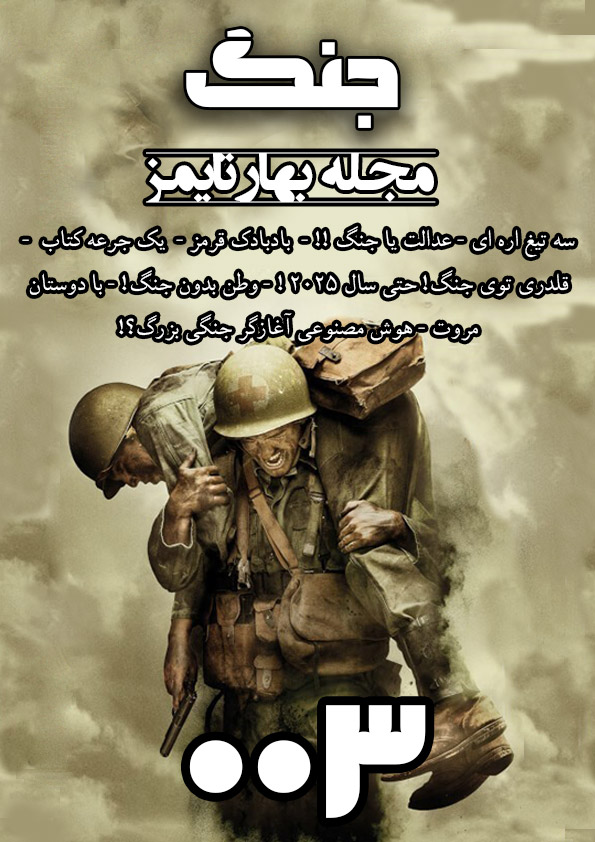
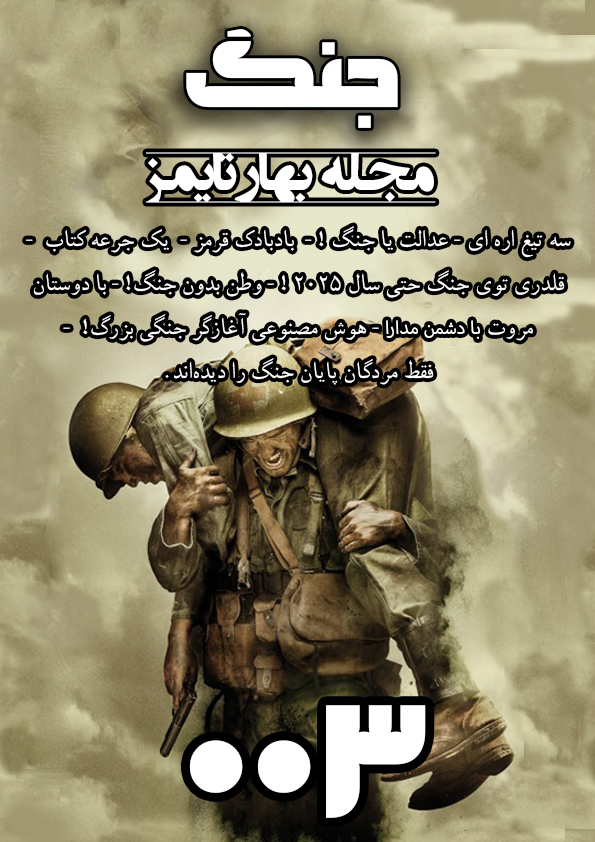
feat(009 hedye)

Changed region(s): [[0.0303, 0.247, 0.9681, 0.4632]]

diff --git a/archive/003/index.html b/archive/003/index.html
@@ -358,6 +358,7 @@
         جنگ، پدیدهای است که بسیاری از آن گریزاناند؛ زخمی که از دل تاریخ سرچشمه میگیرد و هنوز هم اثری عمیق بر جسم و روح جوامع میگذارد . کمتر کسی به خواندن کتابهایی درباره آن رغبت نشان میدهد، چرا که یادآور خشونت و رنج است. اما میخواهم در میان انبوه روایتهای تلخ و جانفرسا، آثاری را معرفی کنم که فراتر از جنگ هستند و از انسانیت و بقا و عشق سخن میگویند. کتابهایی که نه تنها روایتگر جنگاند، بلکه ارزشمندترین تجربههای انسانی را بازگو میکنند و شایسته توجه و زمان مخاطباند.
       </p>
       <hr/>
+      <div class="page-break"></div>
       <p class="text-align-justify">
         سلاخخانه شماره ۵ : slaughterhouse - five <br/>
         - نویسنده: کورت ونهگات <br/>
@@ -368,6 +369,10 @@
       </p>
       <p class="text-align-justify">~این کتاب زیبا را میتوانید با ترجمه فارسی مترجمان برجسته از جمله آقای شهرام داوری و محمدرضا قربانی در کتابخانههای مختلف پیدا کنید~</p>
       <hr/>
+      <img
+        class="alignright w-40 mt-0"
+        src="./assets/images/004-2.jpg"
+      />
       <p>
         در باب جنگ  |  on war <br/>
         - نویسنده: کارل فون کلاوزویتس <br/>
@@ -380,7 +385,6 @@
       </p>
     </div>
     <hr class="d-lg-none" />
-    <div class="page-break"></div>
     <br />
     <div id="005" class="typography-align">
       <h2 class="display-inline-block">قلدری توی جنگ! حتی تو سال 2025!</h2>
@@ -528,16 +532,22 @@
         <strong class="title small">دکتر سید حامد صدوق</strong>
       </a>
       <p class="text-align-justify">
-        خداوند متعال انسانها را مدنی الطبع آفرید و آنها را به گونه ای قرار داد تا برای رفع انواع نیازهای خود به اجتماع و افراد آن وابسته باشند. لاجرم انسانها باید در کنار هم زندگی کنند. از طرفی, انسانها مختلف الطبایع نیز می باشند و طبایع حاکم بر آنها متفاوت است. چهار طبع بلغمی, سودایی, صفراوی و دموی وجود دارد که همه این چهار طبع در همه انسانها وجود دارد ولی به دلیل عدم تعادل این طبایع در انسان, معمولا یکی از آنها بر بقیه غلبه دارد. طبع غالب هر انسانی نیز باعث بوجود آمدن خلقیات متفاوتی در انسانها می شود. مثلا بلغمی ها خونسرد, سوادیی ها گوشه گیر, صفراوی ها تند خو و دموی ها اجتماعی هستند. وجود طبایع مختلف و در نتیجه اخلاقیات و سلیقه ها و ترجیحات متفاوت در میان انسانها که لاجرم مدنی الطبع هستند و با همدیگر همزیستی دارند باعث بوجود آمدن اختلافها و در نتیجه نزاعها در بین آنان می شود. لذا وجود حاکم عادل و رافع نزاع در میان آنها بسیار ضروری بود که خداوند حکیم پیامبران را برای برقراری این عدالت در میان آنها مبعوث کرد که البته این یکی از وجوه حضور پیامبران در میان مردم است. 
+        خداوند متعال انسانها را مدنیالطبع آفرید و ذات آنها را به گونهای قرار داد که برای رفع انواع نیازهای خود، به اجتماع و افراد آن وابسته باشند. لاجرم انسانها باید در کنار هم زندگی کنند. از طرفی، انسانها مختلفالطبایع نیز میباشند و طبایع حاکم بر آنها متفاوت است. چهار طبع بلغمی، سودایی، صفراوی و دموی وجود دارد؛ تمام انسانها از  این چهار طبع برخوردارند اما به دلیل عدم تعادل این طبایع در انسان، معمولاً یکی از آنها بر سایر طبعها غلبه میکند. طبع غالب انسانها نیز باعث بهوجود آمدن خلقیات متفاوتی در آنها میشود؛ برای مثال بلغمیها خونسرد، سوادییها گوشهگیر، صفراویها تندخو و دمویها اجتماعی هستند.
       </p>
       <p class="text-align-justify">
-        خداوند متعال انسانها را مدنی الطبع آفرید و آنها را به گونه ای قرار داد تا برای رفع انواع نیازهای خود به اجتماع و افراد آن وابسته باشند. لاجرم انسانها باید در کنار هم زندگی کنند. از طرفی, انسانها مختلف الطبایع نیز می باشند و طبایع حاکم بر آنها متفاوت است. چهار طبع بلغمی, سودایی, صفراوی و دموی وجود دارد که همه این چهار طبع در همه انسانها وجود دارد ولی به دلیل عدم تعادل این طبایع در انسان, معمولا یکی از آنها بر بقیه غلبه دارد. طبع غالب هر انسانی نیز باعث بوجود آمدن خلقیات متفاوتی در انسانها می شود. مثلا بلغمی ها خونسرد, سوادیی ها گوشه گیر, صفراوی ها تند خو و دموی ها اجتماعی هستند. وجود طبایع مختلف و در نتیجه اخلاقیات و سلیقه ها و ترجیحات متفاوت در میان انسانها که لاجرم مدنی الطبع هستند و با همدیگر همزیستی دارند باعث بوجود آمدن اختلافها و در نتیجه نزاعها در بین آنان می شود. لذا وجود حاکم عادل و رافع نزاع در میان آنها بسیار ضروری بود که خداوند حکیم پیامبران را برای برقراری این عدالت در میان آنها مبعوث کرد که البته این یکی از وجوه حضور پیامبران در میان مردم است. 
+        وجود طبایع مختلف و اخلاقیات، سلیقهها و ترجیحات متفاوت در انسانهایی که لاجرم مدنیالطبع هستند و با یکدیگر همزیستی دارند، اختلاف و نزاعها را در بین آنان بهوجود میآورد. لذا وجود حاکم عادل و رافع نزاع در میان آنها بسیار ضروری است که خداوند حکیم، پیامبران را برای برقراری این عدالت در میان انسانها مبعوث کرد که البته این یکی از وجوه حضور پیامبران در میان مردم است.
       </p>
       <p class="text-align-justify">
-        پس نزاع و اختلاف در زندگی فردی و اجتماعی انسان طبیعی بوده و عضو ذاتی زندگی بشری می باشد. خداوند پیامبران را به عنوان رسولان ظاهری و حاکمان زندگی اجتماعی بشر قرار داد و عقل را نیز به عنوان رسول باطنی و حاکم درونی هر فرد برای رفع نزاعهای درونی خلق کرد که البته نقش رسولان در هدایت عقلانی انسان هم مشهود می باشد.
+        از طرفی، خود انسان نیز جامع اضداد است، به این معنا که دارای صفات و ویژگیهای متضاد بوده و از قوا و استعدادهای متضاد تشکیل شده است. به عبارت دیگر، همانگونه که هر انسانی دارای عطوفت است، در خود خشم نیز دارد که از صفات متضاد هستند. این صفات در نزاع با یکدیگر هستند و انسانها باید بتوانند بر آنها حاکم باشند و در زمان مناسب هر یک را بروز دهند. 
       </p>
       <p class="text-align-justify">
-        پس نزاع و اختلاف در زندگی فردی و اجتماعی انسان طبیعی بوده و عضو ذاتی زندگی بشری می باشد. خداوند پیامبران را به عنوان رسولان ظاهری و حاکمان زندگی اجتماعی بشر قرار داد و عقل را نیز به عنوان رسول باطنی و حاکم درونی هر فرد برای رفع نزاعهای درونی خلق کرد که البته نقش رسولان در هدایت عقلانی انسان هم مشهود می باشد.
+        پس نزاع و اختلاف در زندگی فردی و اجتماعی انسان طبیعی بوده و عضو ذاتی زندگی بشری میباشد. خداوند پیامبران را به عنوان رسولان ظاهری و حاکمان زندگی اجتماعی بشر قرار داد و عقل را نیز به عنوان رسول باطنی و حاکم درونی هر فرد، برای رفع نزاعهای درونی خلق کرد که البته نقش رسولان در هدایت عقلانی انسان هم مشهود میباشد. 
+      </p>
+      <p class="text-align-justify">
+        بنابراین نزاع و کشمکش بخش جدانشدنی زندگی فردی و اجتماعی هر انسانی است و فرمودند مدارا با خلق نیمی از عقل است و رسول باطنی تو را به مدارا و عطوفت و عدم نزاع با خلق دعوت میکند، همچنانکه رسول ظاهری نیز اسوه اخلاق بودند. 
+      </p>
+      <p class="text-align-justify">
+        نیم دیگر عقل مدارا در درون خود است که هر که مدارا را از درون خود آغاز کرد و جانب اعتدال را در غلبه طبایع و تمایلات خود نگه داشت، نیم دیگر عقل خود که مدارا با خلق است را نیز میسازد.
       </p>
     </div>
     <hr class="d-lg-none" />
@@ -564,15 +574,53 @@
         <strong class="title small">تکنولوژی</strong>
       </span>
       <p class="text-align-justify">
-        ایده یک جنگ بزرگ که به جهان پایان میدهد یک فکر ترسناک است. <br/>
-        یک جنگ بزرگ، بویژه جنگی شامل تسلیحات هستهای، میتواند عواقب فاجعه باری از جمله تخریب فوری، تلفات جانی و آسیب زیست محیطی بسیار زیاد داشته باشد. اثرات طولانی مدت مانند زمستان هستهای میتواند اکوسیستم و کشاورزی جهانی را مختل کند و منجر به قحطی و رنج گسترده شود.
+        ایدهی یک جنگ بزرگ که به جهان پایان میدهد یک اندیشهی ترسناک است.  <br/>
+        یک جنگ بزرگ، بهویژه جنگی شامل تسلیحات هستهای، میتواند عواقب فاجعه باری از جمله تخریب فوری، تلفات جانی و آسیب زیست محیطی بسیار زیادی به همراه داشته باشد.
       </p>
       <p class="text-align-justify">
-        هوش مصنوعی خود شروع کننده جنگ نیست، اما میتواند عامل مهمی در تشدید درگیریها باشد. استفاده از هوش مصنوعی در سلاحهای خودمختار، جنگ سایبری، و کمپینهای اطلاعات نادرست میتواند تنشها و سوءتفاهمها را بین کشورها افزایش دهد. با این حال بسیار مهم است که به یاد داشته باشیم تصمیمگیری برای جنگ توسط انسانها گرفته میشود، نه ماشینها.
+        اثرات طولانی مدت آن مانند زمستان هستهای، میتواند اکوسیستم و کشاورزی جهانی را مختل کند و منجر به قحطی و رنج گسترده شود.
+      </p>
+      <p class="text-align-justify">
+        هوش مصنوعی خود شروع کنندهی جنگ نیست، اما میتواند نقش مهمی در تشدید درگیریها داشته باشد. استفاده از هوش مصنوعی در سلاحهای خودمختار، جنگ سایبری، و کمپینهای اطلاعات نادرست میتواند تنشها و سوءتفاهمها را بین کشورها افزایش دهد. با اینحال بسیار مهم است که به یاد داشته باشیم تصمیمگیری دربارهی جنگ، توسط انسانها صورت میگیرد نه ماشینها.
       </p>
     </div>
     <hr class="d-lg-none" />
-    <!-- <hr class="d-lg-none" /> -->
+    <div class="page-break"></div>
+    <div id="009" class="typography-align">
+      <br/>
+      <h2 class="display-inline-block">فقط مردگان پایان جنگ را دیدهاند.</h2>
+      <img
+        class="alignleft w-40 mt-0"
+        src="./assets/images/009.jpg"
+        alt="فقط مردگان پایان جنگ را دیدهاند."
+      />
+      <div class="d-flex"></div>
+      <a
+        href="../../author/004-hediye-gholam-ali-zade.html" 
+        class="profile mini inline"
+      >
+        <span class="title small">نویسنده: </span>
+        <strong class="title small">هدیه غلامعلی زاده</strong>
+      </a>
+      <p class="text-align-justify">
+        بذری در زمین پاشید و ریشه کرد، هابیل برادر خود را تکه تکه کرد، تاریخ خون ریخت و خون خواست و برای خون همهچیز را درید.
+      </p>
+      <p class="text-align-justify">
+        تاریخ را بوی خون برداشت و نجوای مردگان، تنها به گوش موریانههایی رسید که جسدها را میخوردند. 
+      </p>
+      <p class="text-align-justify">
+        تنها مردگان پایان جنگ را دیدهاند زیرا چشمشان دیگر توان دیدن نداشت. پاییز بود. جنگ جهانی تمام شده بود و ژنرال سابق ارتش بریتانیا حالا بیهدف و بیمعنا با پایی که از دست داده بود در ایوان خانهاش نشسته و قهوه مینوشید. 
+      </p>
+      <p class="text-align-justify">
+        پای نداشتهاش گزگز میکرد و میخارید، ذهنش خاطرات جنگ را در هم میآمیخت و او هر روز، خاموش و خاموشتر میشد. تنها همصحبت او طوطی سخنگویی بود که بر سر شانهاش مینشست و تکرار میکرد:"دشمن رو باید کشت... دشمن رو باید کشت!"
+      </p>
+      <p class="text-align-justify">
+        ژنرال خاموش ماند و اندیشید که دشمن کدام است؟ او که برای خانوادهاش یک پدر و برای مردمش یک قهرمان بود، او که مدالهای قهرمانی و شهامتش را از دیوار آویزان کرده بود، او که از دست دادن پایش را نشانهی افتخار میدانست،  برای کودکی در آنسوی دنیا هیولایی بود بیشاخ و دم.
+      </p>
+      <p class="text-align-justify">
+        ژنرال اندیشید جنگ چطور مرزها را باریک میکند. مرز بین قتل و شرافت کدام است؟ تنها یک نام! بله. نام جنگ قتلها را به افتخار بدل میکند و در ازای هر قتل به گردنت مدال میآویزند، قتل انسانهایی که تا پیش از این بهخاطر انسان بودنشان هیچ حقی برای تصمیم گیری در زندگی آنان نداشتی. حالا میتوانستی بکشی! بله! بکش و مدال بگیر! این افتخار است و آنیکی قتل! طوطی بر سر شانه ژنرال بال زد و تکرار کرد:"دشمن را بکش! دشمن لعنتی!" ژنرال طوطی را نگریست، آرام گفت:"دشمن ما بودیم..." و طوطی تکرار کرد.
+      </p>
+    </div>
     <div class="end-page"></div>
   </div>
   <script>
